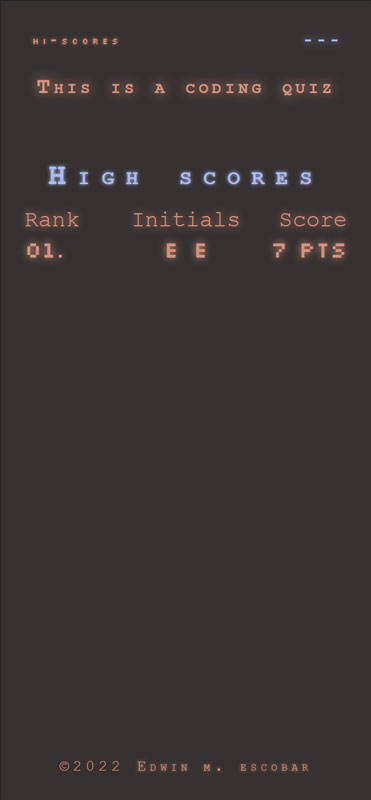
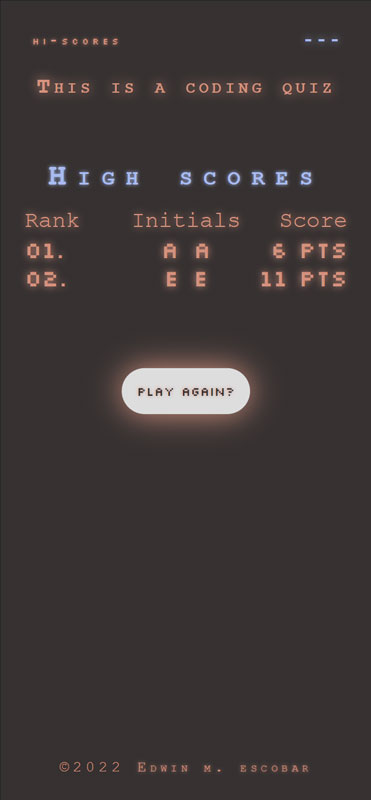
worked out the replay logic

diff --git a/assets/js/script.js b/assets/js/script.js
@@ -174,7 +174,7 @@ function nextQuestion(random) {
 // logic.start-quiz
 function startQuiz() {
   // remove #rules-container from dom
-  rulesContainerEl.remove();
+  quizContainerEl.innerHTML = '';
 
   // create & post #question-container in its place
   questionContainerEl.setAttribute("id", "question-container");
@@ -276,9 +276,16 @@ function displayScoreboard() {
 
   quizContainerEl.appendChild(scoreboardEl);
 
-  // issue | start button needs to re-randomize the questions array so that a new game can run.
-  // startButtonEl.textContent = "play again?";
-  // quizContainerEl.appendChild(startButtonEl);
+  // replay | reset the index & display functional replay button
+  currentQuestionIndex = 0;
+
+  const replayButtonEl = document.createElement("button");
+  replayButtonEl.setAttribute("id", "replay-button");
+  replayButtonEl.className = "button active";
+  replayButtonEl.textContent = "play again?"
+  replayButtonEl.addEventListener('click', startQuiz);
+
+  quizContainerEl.appendChild(replayButtonEl);
 
   // populate scoreboard with previous scores pulled from local storage
 }

diff --git a/assets/css/style.css b/assets/css/style.css
@@ -305,7 +305,7 @@ label {
     text-shadow: 0 0 1vw var(--clear);
 }
 
-#start-button {
+#start-button, #replay-button {
     margin: 1rem;
     padding: 1rem;
     font-family: Silkscreen;
@@ -340,7 +340,7 @@ label {
         font-size: 1.5rem;
     }
 
-    #start-button, #save-button {
+    #start-button, #replay-button, #save-button {
         font-size: 1.25rem;
     }
 
@@ -369,6 +369,7 @@ label {
 
     #rules,
     #start-button,
+    #replay-button
     #answers,
     #initials-container *,
     #save-button {
